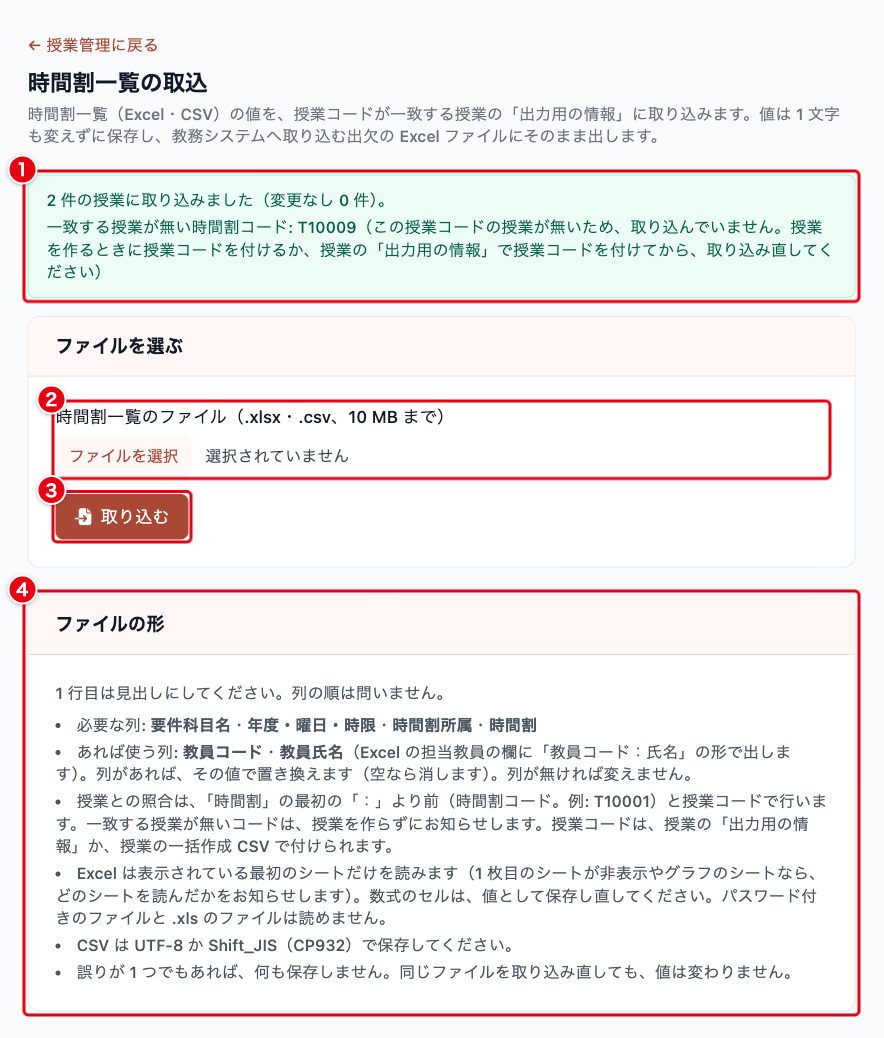
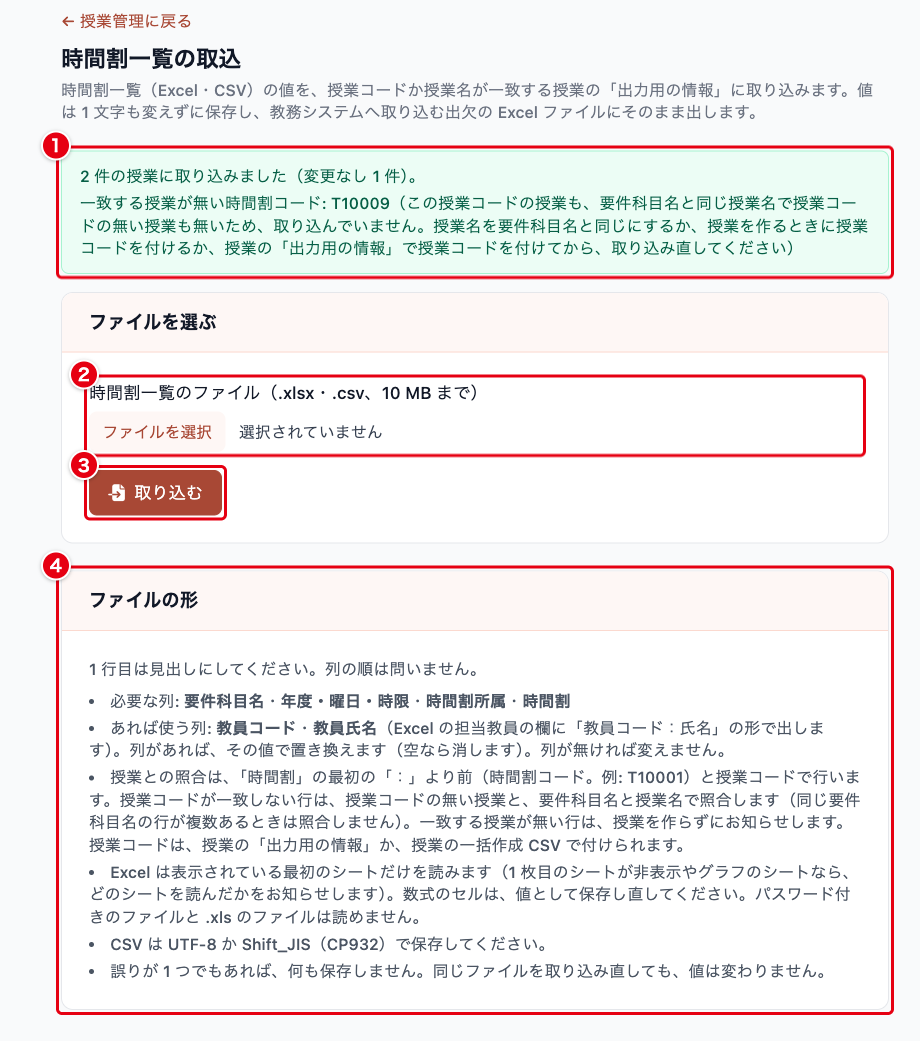
docs(attendance): 連携用 Excel の出力用の情報の入力・授業名での取込・五十音順をマニュアルに書く
2026-10-08 に SEC 本番へ出した変更に合わせる。

- 組織管理の「出力用の情報」で、年度・曜日・時限 / 時間割所属 / 時間割
  (Excel の B1〜B3) を入力・修正できることを書く。図 23 を撮り直す
- 時間割一覧の取込で、授業コードの無い授業も要件科目名と同じ授業名なら
  取り込むこと、要件科目名が重なる行は取り込まずに知らせることを書く。
  図 22 を撮り直す
- 書き出したファイルの学生の並びを、受講者名簿のカナの五十音順に直す

Claude-Session: https://claude.ai/code/session_01MiLmA1bf6XKKySWek7Xkfd

Changed region(s): [[0.0, 0.0, 0.9774, 0.9865]]

diff --git a/docs/attendance/attendance-school-v2.md b/docs/attendance/attendance-school-v2.md
@@ -536,18 +536,19 @@ Excel でそのまま開く場合は CSV (Shift_JIS) か Excel (.xlsx) を、他
 
 ファイルの上部には「年度・曜日・時限」「時間割所属」「時間割」の欄があります。
 この3つの欄に出す文字列は、授業ごとに入れておけます。
-入れ方は次の2つです。
+入れ方は次の3つです。
 
 - 教員が授業ごとに入れる：授業一覧の「授業設定変更」で入れます。組織が授業メタデータの項目を登録している場合に使えます
+- 組織管理者が授業ごとに入れる：組織管理の「授業管理」で、授業の「出力用の情報」を開いて入れます
 - 組織管理者がまとめて入れる：組織管理の「授業管理」で、時間割一覧のファイルを取り込みます
 
-どちらでも入れていない授業は、授業名などの今ある授業の情報で書き出します。
+どれでも入れていない授業は、授業名などの今ある授業の情報で書き出します。
 何が出るかは「書き出したファイルの中身」にあります。
 
 作業の順序は次のとおりです。
 
 1. 必要に応じて、授業一覧の「授業設定変更」で、Excel の上部に出す文字列を入れる
-2. 必要に応じて、組織管理者が時間割一覧を取り込み、授業ごとの「出力用の情報」で担当教員の値を確かめる
+2. 必要に応じて、組織管理者が時間割一覧を取り込み、授業ごとの「出力用の情報」で値を確かめる。時間割一覧に無い授業の値は、そこで入れる
 3. かんたん出欠管理の「エクスポート」で書き出す
 
 ### 授業設定変更で Excel に出す文字列を入れる
@@ -580,13 +581,14 @@ Excel でそのまま開く場合は CSV (Shift_JIS) か Excel (.xlsx) を、他
 各項目は500文字までで、改行とタブは入れられません。
 項目を空欄にして保存すると、その値は消え、Excel には授業名などから作った値が出ます。
 
-授業メタデータは、組織管理の「出力用の情報」の画面で「時間割一覧の値」として表示されます。
-組織管理者が時間割一覧を取り込むと、授業コードが一致する授業では、授業メタデータが時間割一覧の値に置き換わります。
+授業メタデータは、組織管理の「出力用の情報」の画面の「時間割の値」と同じ値です。
+組織管理者がそこで直すと、授業設定変更の画面の値も変わります。
+組織管理者が時間割一覧を取り込むと、一致した授業では、授業メタデータが時間割一覧の値に置き換わります。
 
 ### 時間割一覧を取り込む
 
 組織管理者は、時間割一覧のファイル（Excel または CSV）を取り込んで、複数の授業の値をまとめて入れられます。
-取り込むと、授業コードが一致する授業に、時間割一覧の値が「出力用の情報」として保存されます。
+取り込むと、授業コードか授業名が一致する授業に、時間割一覧の値が「出力用の情報」として保存されます。
 取り込みは組織管理の画面で行います。
 画面右上の名前のアイコンを押して「組織管理者向け設定」を選び、左のメニューの「授業管理」を開きます。
 
@@ -597,13 +599,19 @@ Excel でそのまま開く場合は CSV (Shift_JIS) か Excel (.xlsx) を、他
 | ① | 授業管理 | 組織の授業の一覧を開きます |
 | ② | 時間割一覧を取り込む | 時間割一覧の取込の画面に移動します |
 | ③ | 授業コード | 時間割一覧の行と授業を結び付けるコードです。授業コードが無い授業には「—」と表示されます |
-| ④ | 時間割一覧 | 「年度・曜日・時限」「時間割所属」「時間割」の3つの値がそろっている授業には「取込済み」、そろっていない授業には「未取込」と表示されます。教員が「授業設定変更」で3つとも入れた授業も「取込済み」になります |
+| ④ | 時間割一覧 | 「年度・曜日・時限」「時間割所属」「時間割」の3つの値がそろっている授業には「取込済み」、そろっていない授業には「未取込」と表示されます。教員が「授業設定変更」で、または組織管理者が「出力用の情報」で3つとも入れた授業も「取込済み」になります |
 | ⑤ | 出力用の情報 | 「編集する」で、その授業の出力用の情報の画面を開きます。使い方は「授業ごとの出力用の情報を確かめる、直す」にあります |
 
 時間割一覧の行と授業は、「時間割」の値の最初の「：」より前の部分（時間割コード）と、授業コードが一致するかで結び付けます。
 たとえば「T10001：テスト科目1」の行は、授業コードが「T10001」の授業に取り込まれます。
 大文字と小文字、全角と半角が違うコードは一致しません。
 授業コードは、授業の「出力用の情報」の画面か、授業管理の「授業を一括作成」で使う CSV の「授業コード」の列で付けます。
+
+授業コードで一致しない行は、授業コードの無い授業と、「要件科目名」と授業名が同じかで結び付けます。
+授業名は、全角と半角の違い（括弧や英数字、「Ⅱ」と「II」など）と前後の空白を区別せずに比べます。
+同じ名前の授業が2つ以上あれば、そのすべてに取り込みます。
+授業コードのある授業は、授業名が同じでも、授業コードでだけ結び付けます。
+ファイルの中に要件科目名が同じ行が2つ以上ある科目は、どの行の値を使うか決められないため、授業名では結び付けません。
 
 「時間割一覧を取り込む」を押すと、次の画面が開きます。
 図は、ファイルを取り込んだ直後の画面です。
@@ -612,7 +620,7 @@ Excel でそのまま開く場合は CSV (Shift_JIS) か Excel (.xlsx) を、他
 
 | 番号 | 項目 | 説明 |
 | --- | --- | --- |
-| ① | 取り込みの結果 | 値を取り込んだ授業の数と、そのうち値が前と変わらなかった授業の数です。一致する授業が無かった時間割コードがあると、そのコードと直し方が続けて表示されます |
+| ① | 取り込みの結果 | 値を取り込んだ授業の数と、そのうち値が前と変わらなかった授業の数です。授業名で結び付けた授業があると、その数も表示されます。一致する授業が無かった時間割コードや、要件科目名が重なっていて取り込まなかった時間割コードがあると、そのコードと直し方が続けて表示されます |
 | ② | 時間割一覧のファイル | 取り込むファイルを選びます。Excel（.xlsx）か CSV のファイルで、10MBまでです |
 | ③ | 取り込む | 選んだファイルを取り込みます |
 | ④ | ファイルの形 | 取り込めるファイルの決まりです |
@@ -643,8 +651,10 @@ CSV のファイルは、UTF-8 か Shift_JIS で保存してください。
 ファイルに無い授業の値は、そのまま残ります。
 
 一致する授業が無い時間割コードがあっても、授業は作られません。
-そのコードは①に「一致する授業が無い時間割コード」として表示されるので、授業コードを付けてから取り込み直してください。
+そのコードは①に「一致する授業が無い時間割コード」として表示されるので、授業コードを付けるか、授業名を要件科目名と同じにしてから、取り込み直してください。
 削除した授業が使っていた授業コードや、表記だけが違う授業コードのときも、その理由が表示されます。
+要件科目名が同じ行が2つ以上ある科目は、「要件科目名が同じ行が時間割一覧に複数あります」として表示されます。
+その授業には、「出力用の情報」で時間割コードと同じ授業コードを付けてから、取り込み直してください。
 
 ### 授業ごとの出力用の情報を確かめる、直す
 
@@ -656,17 +666,32 @@ CSV のファイルは、UTF-8 か Shift_JIS で保存してください。
 
 | 番号 | 入力項目 | 説明 |
 | --- | --- | --- |
-| ① | 授業コード | 時間割一覧の行と授業を結び付けるコードです。時間割一覧の値が入っているあいだは変えられません |
+| ① | 授業コード | 時間割一覧の行と授業を結び付けるコードです。時間割の値が入っているあいだは変えられません |
 | ② | 教員コード | Excel の担当教員の欄に出すコードです |
 | ③ | 教員氏名（Excel に出す表記） | Excel の担当教員の欄に出す氏名です。姓と名のあいだの空白も含めて、出したい表記のとおりに入力します |
-| ④ | 保存する | ①〜③の変更を保存します |
-| ⑤ | 時間割一覧の値 | 取り込んだ「年度・曜日・時限」「時間割所属」「時間割」「要件科目名」の値です。教員が「授業設定変更」で入れた授業メタデータも、ここに表示されます。この画面では変えられません |
-| ⑥ | 時間割の値を消す | ⑤の値を消します。押すと確認が表示されます。担当教員の値は消えません |
+| ④ | 年度・曜日・時限（Excel の B1） | Excel の「年度・曜日・時限」の欄に出す文字列です |
+| ⑤ | 時間割所属（Excel の B2） | Excel の「時間割所属」の欄に出す文字列です |
+| ⑥ | 時間割（Excel の B3） | Excel の「時間割」の欄に出す文字列です。授業コードのある授業では、最初の「：」より前を授業コードと同じにします |
+| ⑦ | 要件科目名 | 時間割一覧から取り込んだ要件科目名です。値があるときだけ表示されます。この画面では変えられず、Excel にも出ません |
+| ⑧ | 保存する | ①〜⑥の変更をまとめて保存します |
+| ⑨ | 時間割の値を消す | ④〜⑦の値を消します。時間割の値が入っているときだけ表示されます。押すと確認が表示されます。担当教員の値は消えません |
 
 担当教員の欄は、②と③が両方とも空なら、授業を作成した教員の氏名で出ます。
 
-授業コードを変えるときは、先に⑥で時間割一覧の値を消します。
-消すと①に入力できるようになるので、授業コードを直して保存し、時間割一覧を取り込み直してください。
+④〜⑥には、時間割一覧から取り込んだ値か、教員が「授業設定変更」で入れた値が表示されます。
+時間割一覧に無い授業も、ここで入れておけば Excel に出ます。
+入れた文字列は、前後の空白も含めて、入力したとおりに Excel へ出ます。
+各項目は500文字までで、改行とタブは入れられません。
+空欄にして保存すると、その値は消えます。
+あとで時間割一覧を取り込むと、一致した授業の④〜⑦は取り込んだ値に置き換わります。
+
+授業コードのある授業で、⑥の最初の「：」より前が授業コードと違うと、何も保存されません。
+画面の上に、時間割コードを授業コードと同じにするよう求めるお知らせが表示されます。
+⑥を直して、もう一度保存してください。
+授業コードの無い授業では、⑥にどの時間割コードでも入れられます。
+
+授業コードを変えるときは、先に⑨で時間割の値を消します。
+消すと①に入力できるようになるので、授業コードを直して保存し、時間割一覧を取り込み直すか、④〜⑥を入れ直してください。
 授業コードは64文字までで、空白と「：」は使えません。
 組織のほかの授業と同じ授業コードは付けられません。
 削除した授業が使っていた授業コードも使えません。
@@ -710,7 +735,7 @@ CSV のファイルは、UTF-8 か Shift_JIS で保存してください。
 ### 書き出したファイルの中身
 
 ファイルの上部には、授業の情報と凡例が入ります。
-「年度・曜日・時限」「時間割所属」「時間割」には、授業設定変更で入れた授業メタデータか、取り込んだ時間割一覧の値が、そのまま出ます。
+「年度・曜日・時限」「時間割所属」「時間割」には、授業設定変更や組織管理の「出力用の情報」で入れた値か、取り込んだ時間割一覧の値が、そのまま出ます。
 値が無い欄には、次の値が出ます。
 
 | 欄 | 値が無いときに出る値 |
@@ -720,7 +745,9 @@ CSV のファイルは、UTF-8 か Shift_JIS で保存してください。
 | 時間割 | 「授業コード：授業名」です。授業コードが無い授業では授業名だけです |
 | 担当教員 | 授業を作成した教員の氏名です。組織管理者が「出力用の情報」で教員コードか教員氏名を入れた授業では、その値が出ます |
 
-学生は1人1行で、学籍番号の順に並びます。
+学生は1人1行で、組織の受講者名簿のカナの五十音順に並びます。
+姓のカナで並べ、同じなら名のカナ、それも同じなら学籍番号の順です。
+名簿にカナが無い学生と、名簿にいない学生は、その後ろに学籍番号の順で並びます。
 並ぶ学生は、授業に履修者を登録しているかどうかで変わります。
 
 - 履修者を登録している授業：履修者の全員です。履修者でない学生の出欠は書き出しません
